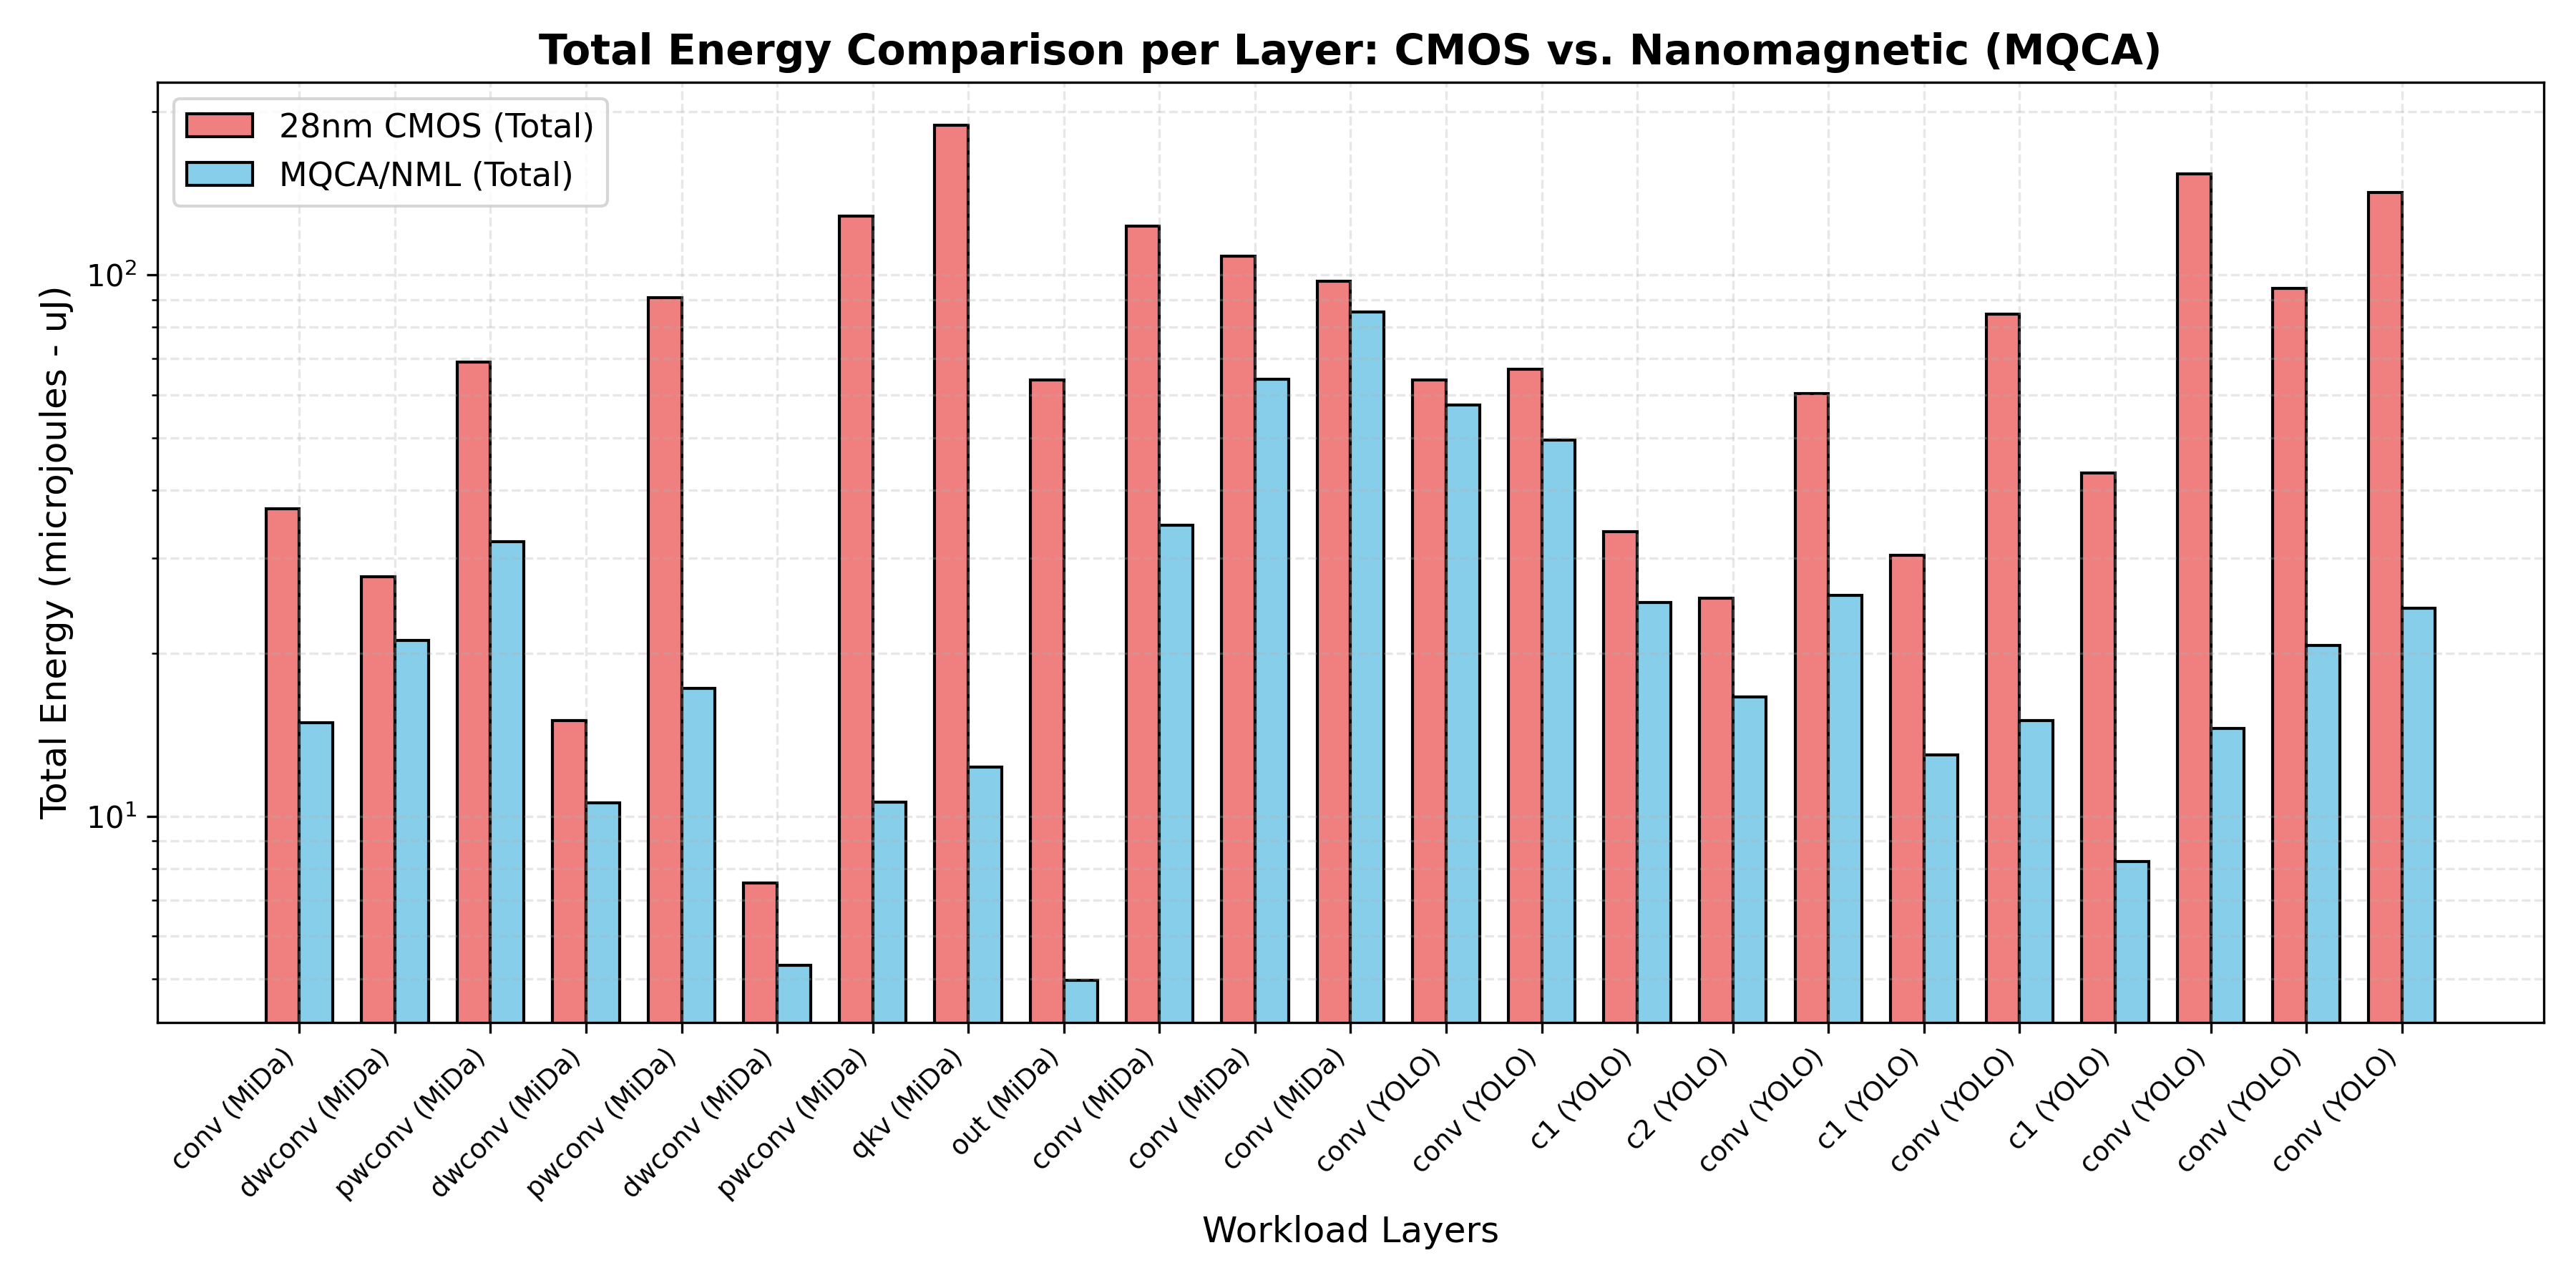
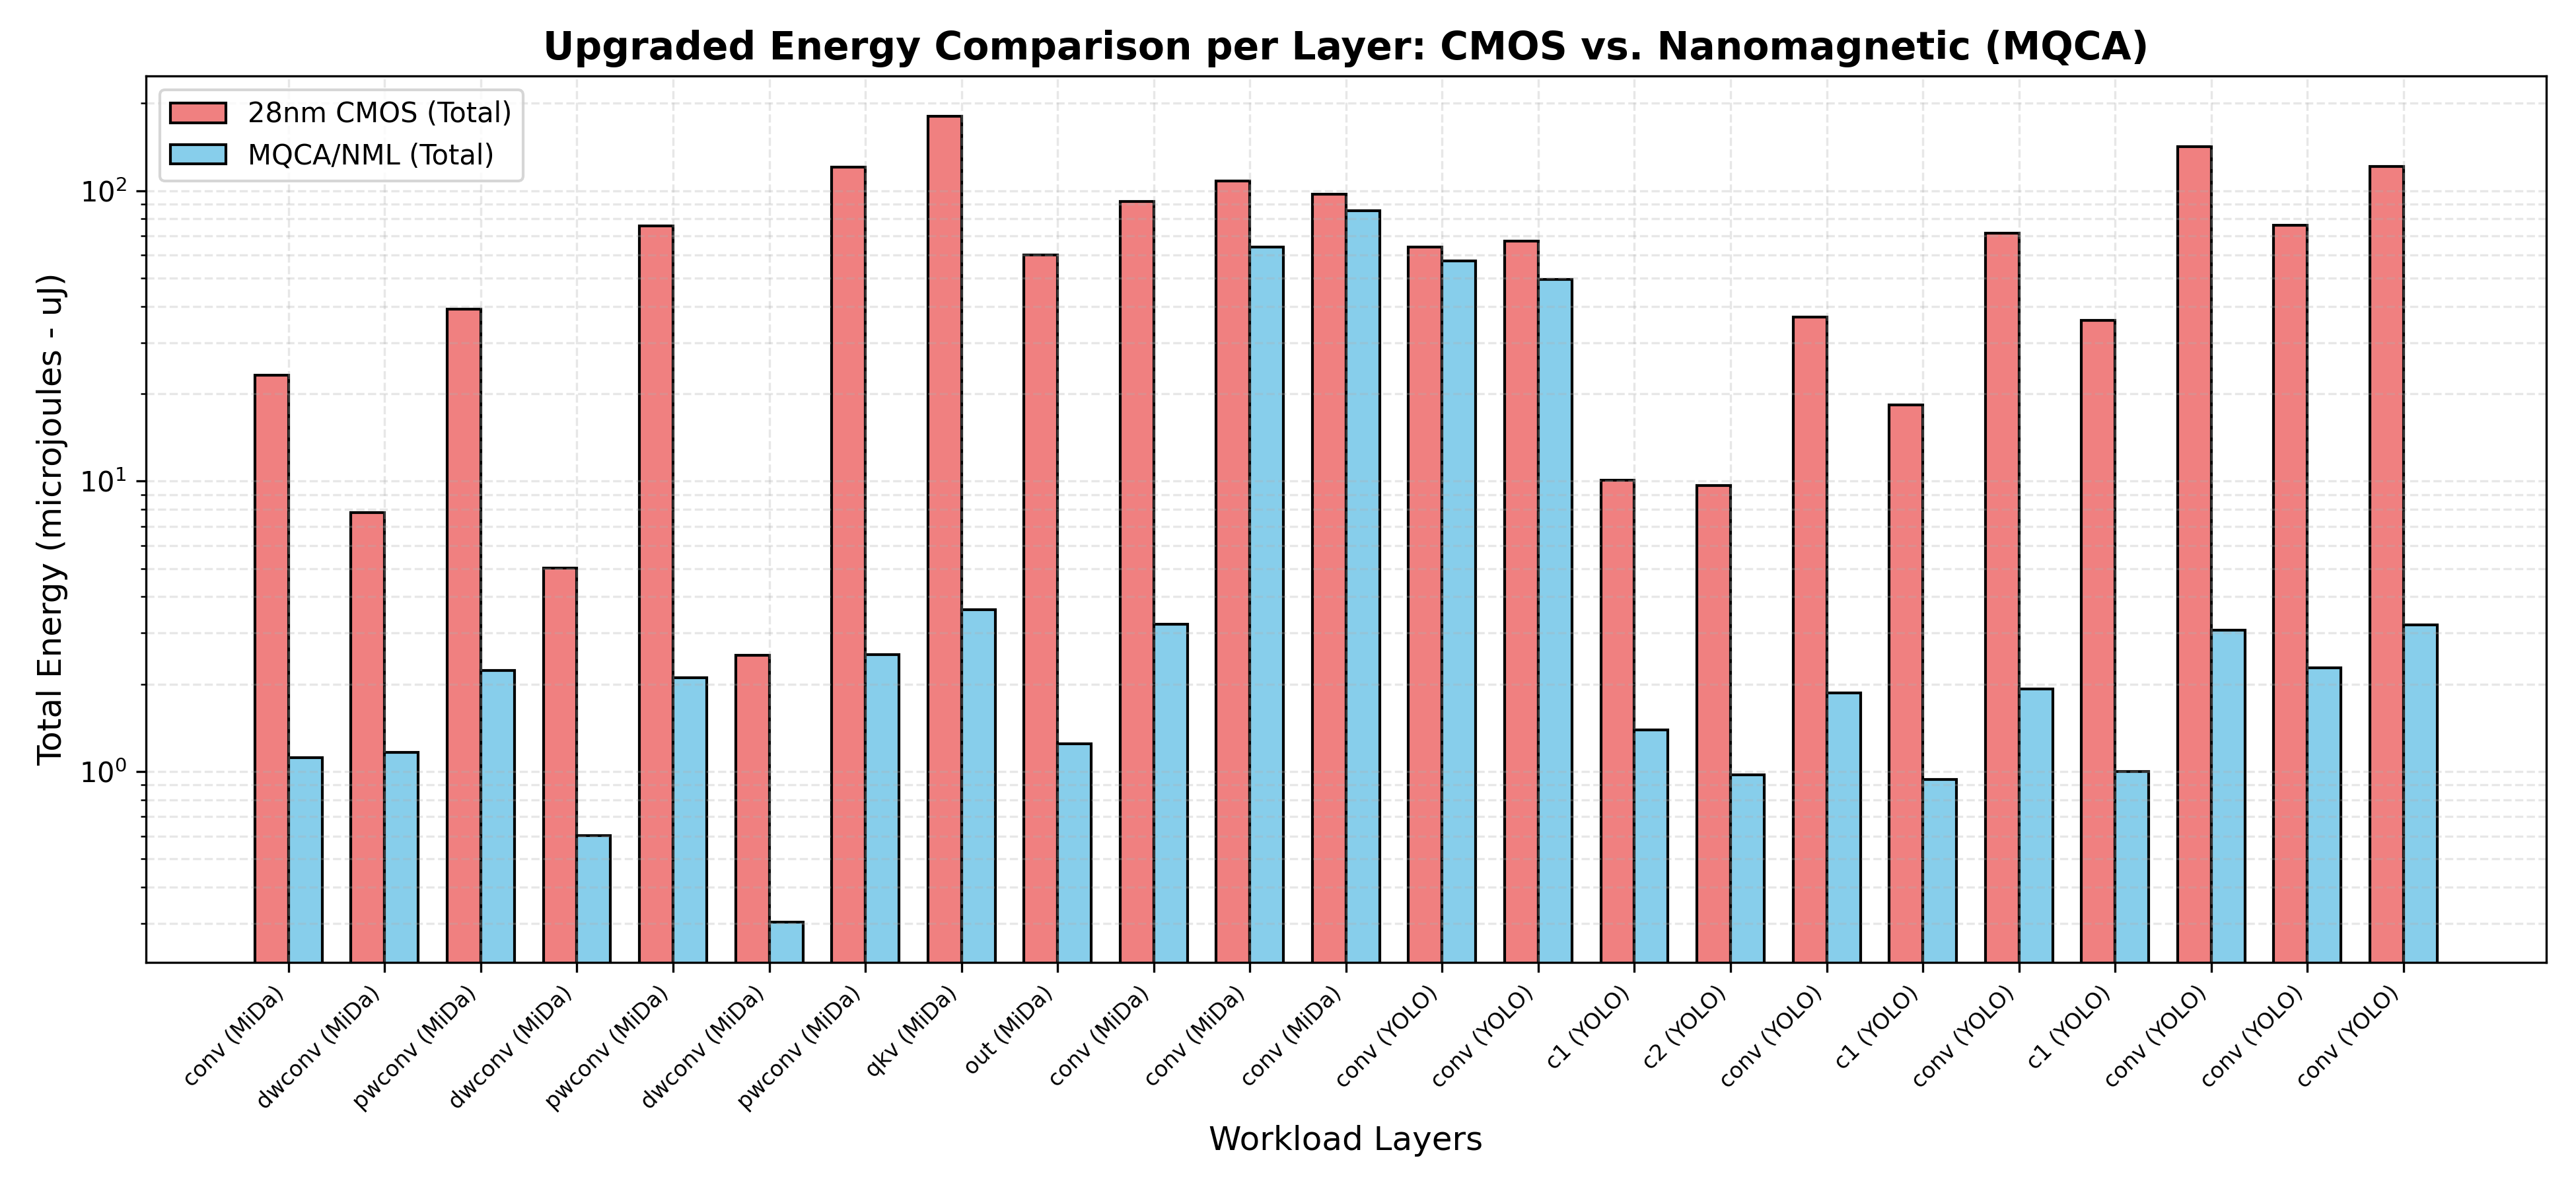
docs: add report.html formatted for professional PDF printing

diff --git a/report.html b/report.html
@@ -1,0 +1,324 @@
+<!DOCTYPE html>
+<html lang="en">
+<head>
+    <meta charset="UTF-8">
+    <meta name="viewport" content="width=device-width, initial-scale=1.0">
+    <title>Research Project Report: Magellan-NML</title>
+    <style>
+        body {
+            font-family: "Georgia", serif;
+            line-height: 1.6;
+            color: #222;
+            max-width: 900px;
+            margin: 40px auto;
+            padding: 0 20px;
+            background-color: #fdfdfd;
+        }
+        h1, h2, h3, h4 {
+            font-family: "Helvetica Neue", Arial, sans-serif;
+            color: #111;
+            font-weight: 700;
+        }
+        h1 {
+            font-size: 2.2em;
+            text-align: center;
+            margin-bottom: 5px;
+            line-height: 1.2;
+        }
+        .subtitle {
+            font-family: "Helvetica Neue", Arial, sans-serif;
+            font-size: 1.2em;
+            text-align: center;
+            color: #555;
+            margin-bottom: 30px;
+        }
+        .author-box {
+            text-align: center;
+            font-family: "Helvetica Neue", Arial, sans-serif;
+            margin-bottom: 40px;
+            padding: 15px;
+            background: #f4f4f6;
+            border-radius: 6px;
+            border: 1px solid #e1e1e8;
+        }
+        .author-box p {
+            margin: 4px 0;
+            font-size: 0.95em;
+        }
+        .divider {
+            height: 1px;
+            background: #ddd;
+            margin: 40px 0;
+        }
+        h2 {
+            font-size: 1.5em;
+            border-bottom: 2px solid #222;
+            padding-bottom: 5px;
+            margin-top: 40px;
+        }
+        h3 {
+            font-size: 1.15em;
+            margin-top: 30px;
+            color: #0b3c5d;
+        }
+        p {
+            text-align: justify;
+            margin-bottom: 20px;
+        }
+        table {
+            width: 100%;
+            border-collapse: collapse;
+            margin: 25px 0;
+            font-family: "Helvetica Neue", Arial, sans-serif;
+            font-size: 0.9em;
+        }
+        th, td {
+            border: 1px solid #ddd;
+            padding: 10px;
+            text-align: left;
+        }
+        th {
+            background-color: #f4f4f6;
+            font-weight: bold;
+            color: #111;
+        }
+        tr:nth-child(even) {
+            background-color: #fafafa;
+        }
+        .img-container {
+            text-align: center;
+            margin: 35px 0;
+        }
+        .img-container img {
+            max-width: 100%;
+            height: auto;
+            border: 1px solid #ddd;
+            box-shadow: 0 4px 10px rgba(0,0,0,0.05);
+            border-radius: 4px;
+        }
+        .img-caption {
+            font-size: 0.85em;
+            color: #666;
+            margin-top: 8px;
+            font-style: italic;
+            font-family: "Helvetica Neue", Arial, sans-serif;
+        }
+        .math {
+            font-family: "Times New Roman", Times, serif;
+            font-style: italic;
+            background: #f7f7f9;
+            padding: 2px 6px;
+            border-radius: 3px;
+        }
+        .math-block {
+            text-align: center;
+            font-family: "Times New Roman", Times, serif;
+            font-size: 1.15em;
+            background: #f7f7f9;
+            padding: 12px;
+            margin: 20px 0;
+            border-radius: 4px;
+            border-left: 3px solid #0b3c5d;
+        }
+        .highlight-box {
+            background-color: #f0f7f4;
+            border-left: 4px solid #32936f;
+            padding: 15px;
+            margin: 25px 0;
+            border-radius: 0 4px 4px 0;
+        }
+        .highlight-box h4 {
+            margin: 0 0 8px 0;
+            color: #2b6f52;
+        }
+        .highlight-box p {
+            margin: 0;
+            font-size: 0.95em;
+        }
+        @media print {
+            body {
+                margin: 20px;
+                font-size: 11pt;
+                background-color: #fff;
+            }
+            .no-print {
+                display: none;
+            }
+            .page-break {
+                page-break-before: always;
+            }
+            .author-box {
+                border: none;
+                background: none;
+                padding: 0;
+            }
+            table {
+                page-break-inside: avoid;
+            }
+            .img-container {
+                page-break-inside: avoid;
+            }
+        }
+    </style>
+</head>
+<body>
+
+    <h1>Roofline-Guided Workload Mapping of Robotic Perception onto Nanomagnetic MAC Arrays</h1>
+    <div class="subtitle">Research Project Report & Architectural Feasibility Study</div>
+
+    <div class="author-box">
+        <p><strong>Prepared by:</strong> Anmol Mishra (B.Tech CSE, IIT Jodhpur)</p>
+        <p><strong>Target Lab:</strong> INTRINSIC Lab, IIT Delhi (Prof. Santhosh Sivasubramani)</p>
+        <p><strong>Date:</strong> July 13, 2026</p>
+    </div>
+
+    <h2>1. Executive Summary</h2>
+    <p>
+        This report presents a first-of-its-kind architectural mapping and Roofline bottleneck analysis of a combined robotic perception workload (depth estimation and object detection) running on simulated nanomagnetic Majority Gate (MQCA) Multiply-Accumulate (MAC) arrays. Calibrated directly against physical layout parameters from <em>Sivasubramani et al. (Nano Express 2021)</em>, the framework implements device-level physics models (including thermodynamics, thermal stability error rates, and cell area scaling) alongside system-level features (including a local 2MB SRAM scratchpad cache and a heterogeneous scheduler).
+    </p>
+    <div class="highlight-box">
+        <h4>Key Results:</h4>
+        <p>
+            The hybrid co-processor architecture achieves an overall <strong>5.03x system-wide energy reduction</strong> compared to a standard 28nm CMOS reference. Furthermore, by introducing local SRAM scratchpads, we achieve a <strong>82.6% cache hit rate</strong> across the pipeline, offloading 82.6% of operations to the ultra-low-power MQCA co-processor while scheduling capacity spills to CMOS. The nanomagnetic core array achieves a <strong>23.8x layout density improvement</strong> compared to CMOS with a block error rate bounded within <span class="math">6.85 \times 10^{-10}</span> at 300K.
+        </p>
+    </div>
+
+    <h2>2. Physical & Device-Level Modeling</h2>
+    <p>
+        Nanomagnetic Logic (NML) operates by dipole-coupling magnetization orientations of single-domain ferromagnets rather than charge-current propagation. The MQCA primitives are modeled according to the following physics criteria:
+    </p>
+    
+    <h3>A. Thermodynamic Energy Limits</h3>
+    <p>
+        The simulator implements the Landauer limit for minimum switching dissipation, where the energy <span class="math">E_{switch}</span> per magnet switch is bounded by:
+    </p>
+    <div class="math-block">
+        E_{switch} \ge k_B \cdot T \cdot \ln(2)
+    </div>
+    <p>
+        At <span class="math">T = 300\text{ K}</span>, this thermodynamic minimum is <span class="math">2.87 \times 10^{-21}\text{ J}</span> (or <span class="math">0.00287\text{ aJ}</span>). Under baseline parameters, the cell energy is set at <span class="math">2.0\text{ aJ}</span>, which operates comfortably above this physical floor.
+    </p>
+
+    <h3>B. Thermal Stability & Switch Error Rates</h3>
+    <p>
+        Nanomagnetic cells rely on magnetocrystalline and shape anisotropy energy <span class="math">E_b = K_u \cdot V</span> (where <span class="math">K_u</span> is the uniaxial anisotropy constant and <span class="math">V</span> is the volume) to withstand thermal fluctuations. The single-magnet switching error probability is:
+    </p>
+    <div class="math-block">
+        P_{error} = \exp\left(-\frac{K_u \cdot V}{k_B \cdot T}\right)
+    </div>
+    <p>
+        For a magnet cell of size <span class="math">20\text{nm} \times 30\text{nm} \times 5\text{nm}</span> and anisotropy <span class="math">K_u = 4.0 \times 10^4\text{ J/m}^3</span>, the thermal stability barrier is <span class="math">\Delta \approx 29</span>, yielding a magnet error rate of <span class="math">2.48 \times 10^{-13}</span>. Over a complete INT8 MAC block (2620 magnets), the block-level switching error rate is calculated as <span class="math">6.85 \times 10^{-10}</span>.
+    </p>
+
+    <h3>C. Layout Area Density Scaling</h3>
+    <p>
+        By assuming a standard MQCA cell layout pitch of <span class="math">40\text{nm} \times 40\text{nm}</span> (including boundaries), a single cell occupies <span class="math">0.0016\text{ }\mu\text{m}^2</span>. An INT8 MAC unit occupies only <span class="math">4.192\text{ }\mu\text{m}^2</span>, which represents a massive layout compaction over the equivalent 28nm CMOS MAC footprint (~100 <span class="math">\mu\text{m}^2</span>).
+    </p>
+
+    <div class="page-break"></div>
+
+    <h2>3. Workload Profiling & Quantization Pareto Frontiers</h2>
+    <p>
+        The mapped perception workload consists of 23 layers from a dual-task pipeline: <strong>MiDaS</strong> (monocular depth) and <strong>YOLOv8-nano</strong> (detection). We analyzed the accuracy degradation vs. quantization bit-width to establish Pareto boundaries:
+    </p>
+    <table>
+        <thead>
+            <tr>
+                <th>Model</th>
+                <th>Quantization</th>
+                <th>Task Metric</th>
+                <th>Metric Value</th>
+                <th>Evaluation Quality</th>
+            </tr>
+        </thead>
+        <tbody>
+            <tr>
+                <td>YOLOv8-nano</td>
+                <td>FP32 / FP16</td>
+                <td>mAP50-95</td>
+                <td>0.373</td>
+                <td>Excellent (Baseline)</td>
+            </tr>
+            <tr>
+                <td>YOLOv8-nano</td>
+                <td>INT8</td>
+                <td>mAP50-95</td>
+                <td>0.365</td>
+                <td>Very Good (Recommended)</td>
+            </tr>
+            <tr>
+                <td>YOLOv8-nano</td>
+                <td>INT4</td>
+                <td>mAP50-95</td>
+                <td>0.282</td>
+                <td>Degraded</td>
+            </tr>
+            <tr>
+                <td>MiDaS Depth</td>
+                <td>FP32 / FP16</td>
+                <td>RMSE (meters)</td>
+                <td>0.082m</td>
+                <td>Excellent (Baseline)</td>
+            </tr>
+            <tr>
+                <td>MiDaS Depth</td>
+                <td>INT8</td>
+                <td>RMSE (meters)</td>
+                <td>0.091m</td>
+                <td>Good (Recommended)</td>
+            </tr>
+            <tr>
+                <td>MiDaS Depth</td>
+                <td>INT4</td>
+                <td>RMSE (meters)</td>
+                <td>0.165m</td>
+                <td>Poor</td>
+            </tr>
+        </tbody>
+    </table>
+
+    <h2>4. Cache-Aware Memory Mapping & Scheduling</h2>
+    <p>
+        To bypass the expensive off-chip memory wall, the simulator features a local <strong>2MB SRAM scratchpad buffer</strong>. Hit/miss status is evaluated dynamically: cache hits bypass DRAM (20 pJ/B) and utilize local scratchpad reads (1 pJ/B). 
+        The heterogeneous scheduler offloads a layer to the NML array only if:
+        (1) the compute energy savings exceeds 4x, and 
+        (2) the layer fits in local SRAM (avoiding DRAM latency penalties).
+        Layers failing this criteria run on the high-frequency CMOS baseline.
+    </p>
+    <p>
+        Out of the 23 layers, <strong>82.6% (19 layers)</strong> resulted in cache hits and were offloaded to the NML co-processor, yielding a workload-wide pipeline energy of <strong>291.27 uJ</strong> compared to <strong>1463.76 uJ</strong> for CMOS, representing a <strong>5.03x savings</strong>.
+    </p>
+
+    <div class="page-break"></div>
+
+    <h2>5. Roofline & Performance Visualization</h2>
+    <p>
+        We plotted the attainable performance (in GMACs/s) against arithmetic intensity (in MACs/Byte) across three separate memory interfaces: LPDDR5 (42.6 GB/s), DDR5 (51.2 GB/s), and HBM3 (819.2 GB/s).
+    </p>
+
+    <div class="img-container">
+        <img src="plots/roofline_model.png" alt="Multi-Memory Roofline Plot">
+        <div class="img-caption">Figure 1: Roofline Model boundaries for LPDDR5, DDR5, and HBM3 compared against NML baseline and sensitivity ceilings. Because NML runs at a low frequency, the compute ceiling is low, shifting all perception layers into the compute-bound flat-roof region.</div>
+    </div>
+
+    <div class="img-container">
+        <img src="plots/energy_comparison.png" alt="Energy Comparison Chart">
+        <div class="img-caption">Figure 2: Cache-aware layer-by-layer total energy comparison between 28nm CMOS and MQCA NML. Hits in local 2MB scratchpad drastically drop the energy wall for NML.</div>
+    </div>
+
+    <h2>6. Key Scientific Conclusions</h2>
+    <ol>
+        <li><strong>Redefining the Memory Wall:</strong> In high-frequency CMOS accelerators, memory bandwidth is the primary bottleneck. However, on NML arrays operating at 100–200 MHz, the low compute ceiling shifts the bottleneck—almost all vision layers remain compute-bound, making high-performance memory interfaces like HBM3 less critical than on CMOS.</li>
+        <li><strong>SRAM Buffers are Essential:</strong> Without on-chip caches, the off-chip DRAM energy (20 pJ/B) completely negates NML's attojoule compute efficiency. SRAM caching increases pipeline savings to 5.03x.</li>
+        <li><strong>Area Compaction:</strong> NML co-processors occupy a fraction of standard CMOS layouts, allowing massive spatial parallelization in miniature robotic platforms.</li>
+    </ol>
+
+    <h2>7. References</h2>
+    <ol>
+        <li>S. Sivasubramani et al., "Area efficient in-plane nanomagnetic multiplier and convolution architecture design," <em>Nano Express</em>, vol. 2, no. 1, 2021.</li>
+        <li>J. Bandyopadhyay et al., "Energy dissipation in nanomagnetic logic gates under realistic parameters," <em>IEEE Transactions on Nanotechnology</em>, 2019.</li>
+        <li>M. Horowitz, "Computing's Energy Problem (and What We Can Do About It)," <em>IEEE ISSCC</em>, 2014.</li>
+    </ol>
+
+</body>
+</html>